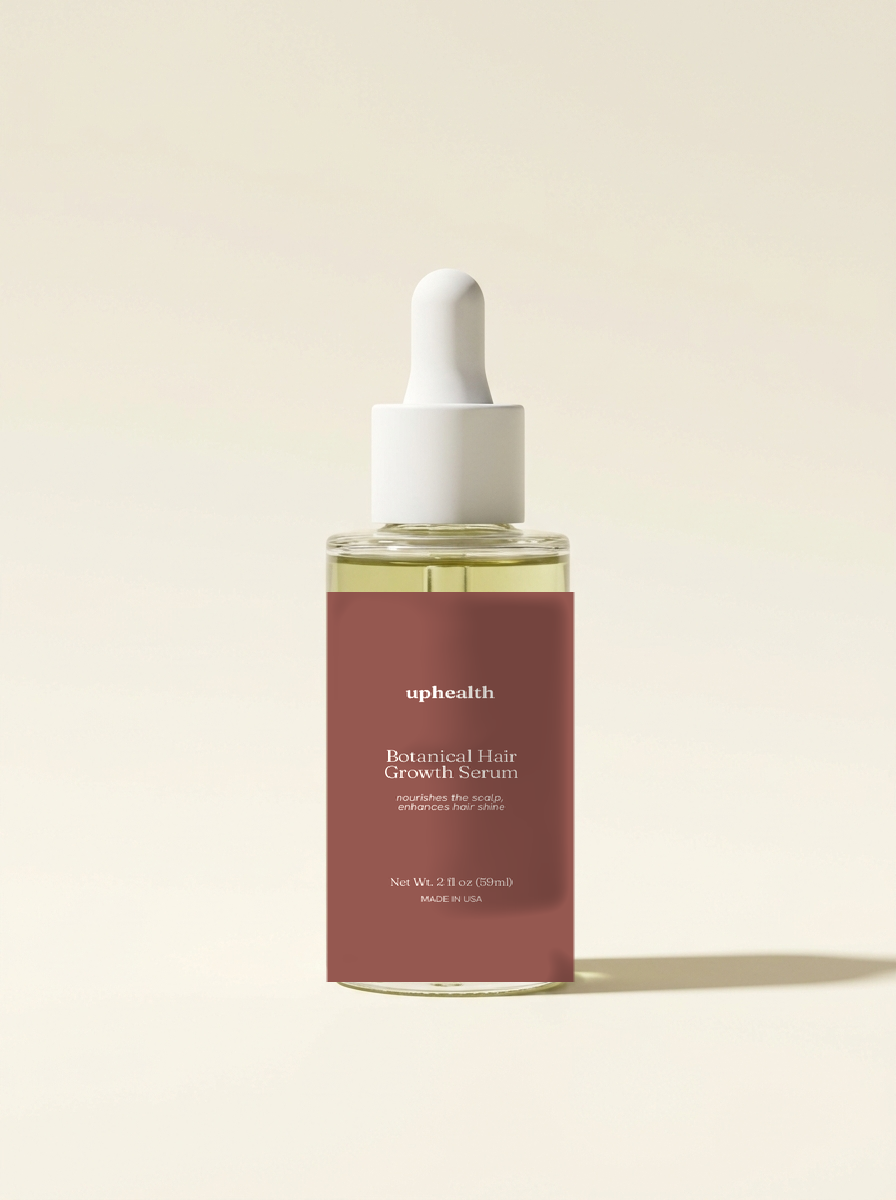
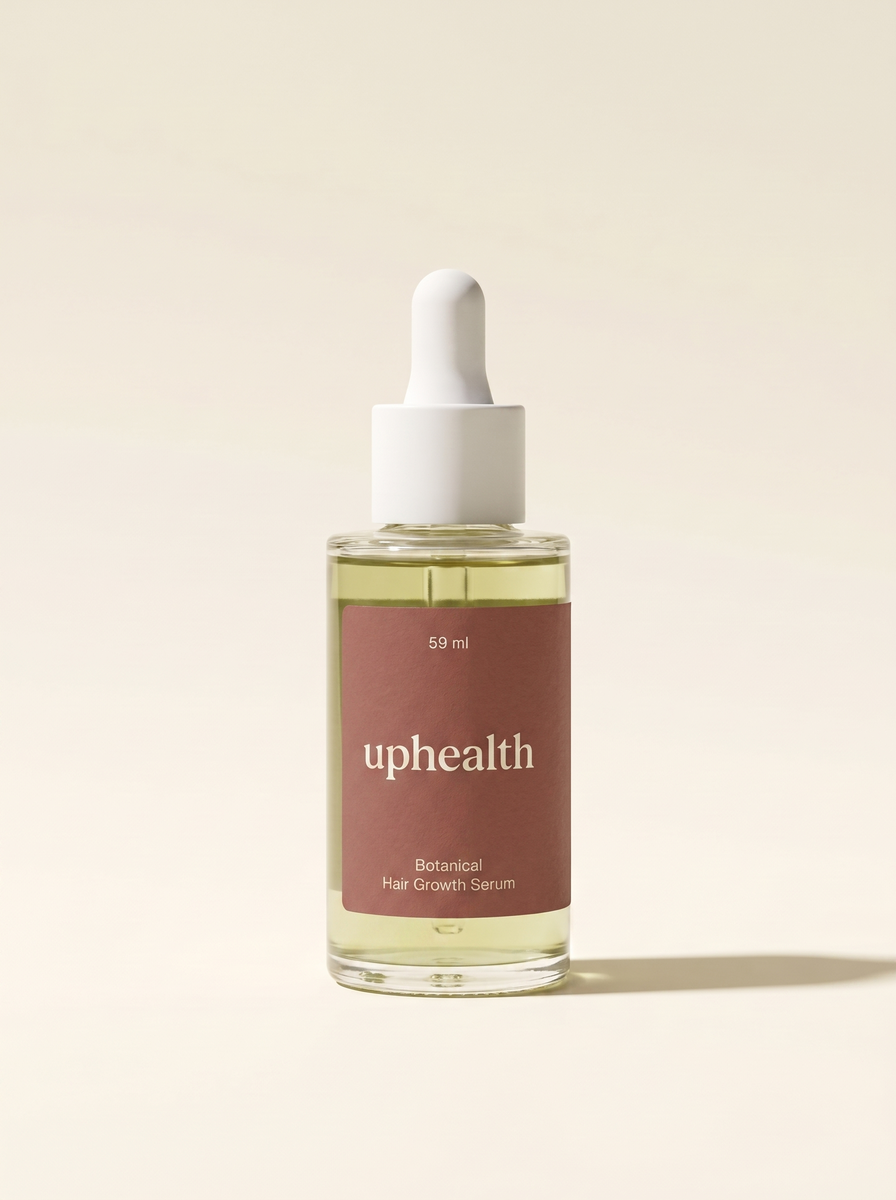
Real product photography everywhere; men's line recoloured, not composited
The pasted-flat-label composites are gone. The women's pages now run the real
Supliful card photography that was already in the repo (duo, amber 30 ml,
frosted 59 ml) - product cards, serum panels and marquee alike, with the
actual label: uphealth, product name, volume.

The men's versions are the same three photographs with the label recoloured
to brick #885049 by nano banana as an edit of the real photo - not a new
generation, so the type, bottles, lighting and shadows are untouched. Applied
to the hero, both marquee pack shots and all three product cards.

life-m6 had the garbled invented label in the man's hand; the same edit
replaced it with a small brick uphealth label, rest of the frame intact.

Deliverables in _deliver/ (green + brick, full resolution), raw generations
in _generated/packs/. VISUALS-PLAN.md v2 records the approach: card photos
where they exist, edits of card photos where a colour differs, generation
only where no photograph can exist.

diff --git a/men/index.html b/men/index.html
@@ -75,7 +75,7 @@
           <!-- Real uphealth pack shot on purpose: generated bottles come back with
                garbled invented text on the label, so the shipped photography stays. -->
           <div class="hero-stage">
-            <img src="assets/duo-packshot.png?v=2"
+            <img src="assets/duo-packshot.png?v=3"
                  alt="The Peptide and Botanical Growth Serum bottles side by side"
                  width="900" height="1125" fetchpriority="high">
           </div>
@@ -91,24 +91,24 @@
     <!-- ============ PHOTO MARQUEE ============ -->
     <section class="strip" aria-label="Product photography">
       <div class="strip-track">
-        <figure class="strip-tile"><img src="assets/life-m6.jpg" alt="A man applying serum along his hairline at the bathroom mirror"></figure>
-        <figure class="strip-tile"><img src="assets/botanical-packshot.png?v=2" alt="The Botanical Growth Serum bottle, studio pack shot"></figure>
+        <figure class="strip-tile"><img src="assets/life-m6.jpg?v=2" alt="A man applying serum along his hairline at the bathroom mirror"></figure>
+        <figure class="strip-tile"><img src="assets/botanical-packshot.png?v=3" alt="The Botanical Growth Serum bottle, studio pack shot"></figure>
         <figure class="strip-tile"><img src="assets/life-m7.jpg" alt="Fingertips massaging serum into the scalp"></figure>
-        <figure class="strip-tile"><img src="assets/duo-packshot.png?v=2" alt="Both serum bottles, studio pack shot"></figure>
+        <figure class="strip-tile"><img src="assets/duo-packshot.png?v=3" alt="Both serum bottles, studio pack shot"></figure>
         <figure class="strip-tile"><img src="assets/life-m3.jpg" alt="A drop of serum falling from a glass dropper onto the scalp"></figure>
         <figure class="strip-tile"><img src="assets/life-m4.jpg" alt="A man in his forties by the window on an ordinary morning"></figure>
         <figure class="strip-tile"><img src="assets/life-m8.jpg" alt="Serum applied to the crown, seen from behind"></figure>
-        <figure class="strip-tile"><img src="assets/serum-packshot.png?v=2" alt="The Peptide Growth Serum bottle, studio pack shot"></figure>
+        <figure class="strip-tile"><img src="assets/serum-packshot.png?v=3" alt="The Peptide Growth Serum bottle, studio pack shot"></figure>
         <figure class="strip-tile"><img src="assets/life-m5.jpg" alt="A man parting his hair at the crown to look at the scalp"></figure>
         <figure class="strip-tile"><img src="assets/life-m2.jpg" alt="A man drying his hair with a towel after the shower"></figure>
-        <figure class="strip-tile" aria-hidden="true"><img src="assets/life-m6.jpg" alt=""></figure>
-        <figure class="strip-tile" aria-hidden="true"><img src="assets/botanical-packshot.png?v=2" alt=""></figure>
+        <figure class="strip-tile" aria-hidden="true"><img src="assets/life-m6.jpg?v=2" alt=""></figure>
+        <figure class="strip-tile" aria-hidden="true"><img src="assets/botanical-packshot.png?v=3" alt=""></figure>
         <figure class="strip-tile" aria-hidden="true"><img src="assets/life-m7.jpg" alt=""></figure>
-        <figure class="strip-tile" aria-hidden="true"><img src="assets/duo-packshot.png?v=2" alt=""></figure>
+        <figure class="strip-tile" aria-hidden="true"><img src="assets/duo-packshot.png?v=3" alt=""></figure>
         <figure class="strip-tile" aria-hidden="true"><img src="assets/life-m3.jpg" alt=""></figure>
         <figure class="strip-tile" aria-hidden="true"><img src="assets/life-m4.jpg" alt=""></figure>
         <figure class="strip-tile" aria-hidden="true"><img src="assets/life-m8.jpg" alt=""></figure>
-        <figure class="strip-tile" aria-hidden="true"><img src="assets/serum-packshot.png?v=2" alt=""></figure>
+        <figure class="strip-tile" aria-hidden="true"><img src="assets/serum-packshot.png?v=3" alt=""></figure>
         <figure class="strip-tile" aria-hidden="true"><img src="assets/life-m5.jpg" alt=""></figure>
         <figure class="strip-tile" aria-hidden="true"><img src="assets/life-m2.jpg" alt=""></figure>
       </div>
@@ -127,7 +127,7 @@
               <svg viewBox="0 0 24 24" fill="none" stroke="currentColor" stroke-width="1.2" stroke-linecap="round" stroke-linejoin="round" aria-hidden="true"><circle cx="12" cy="12" r="4"/><path d="M12 2v2m0 16v2M4.93 4.93l1.41 1.41m11.32 11.32 1.41 1.41M2 12h2m16 0h2M6.34 17.66l-1.41 1.41M19.07 4.93l-1.66 1.41"/></svg>
               Morning
             </span>
-            <img class="serum-pack" src="assets/pack-botanical.png?v=2" alt="Botanical Hair Growth Serum bottle" loading="lazy">
+            <img class="serum-pack" src="assets/pack-botanical.png?v=3" alt="Botanical Hair Growth Serum bottle" loading="lazy">
             <h3>Botanical Growth Serum</h3>
             <p class="serum-role">settles the scalp</p>
             <ul class="ilist">
@@ -148,7 +148,7 @@
               <svg viewBox="0 0 24 24" fill="none" stroke="currentColor" stroke-width="1.2" stroke-linecap="round" stroke-linejoin="round" aria-hidden="true"><path d="M12 3a6 6 0 0 0 9 9 9 9 0 1 1-9-9"/></svg>
               Evening
             </span>
-            <img class="serum-pack" src="assets/pack-peptide.png?v=2" alt="Peptide Hair Growth Serum bottle" loading="lazy">
+            <img class="serum-pack" src="assets/pack-peptide.png?v=3" alt="Peptide Hair Growth Serum bottle" loading="lazy">
             <h3>Peptide Growth Serum</h3>
             <p class="serum-role">feeds the roots overnight</p>
             <ul class="ilist">
@@ -394,7 +394,7 @@
         <div class="products-grid">
           <article class="product-card">
             <figure class="product-media">
-              <img src="assets/pack-peptide.png?v=2" alt="Peptide Hair Growth Serum bottle" loading="lazy">
+              <img src="assets/pack-peptide.png?v=3" alt="Peptide Hair Growth Serum bottle" loading="lazy">
             </figure>
             <div class="product-body">
               <h3>Peptide Growth Serum</h3>
@@ -410,7 +410,7 @@
           </article>
           <article class="product-card">
             <figure class="product-media">
-              <img src="assets/pack-botanical.png?v=2" alt="Botanical Hair Growth Serum bottle" loading="lazy">
+              <img src="assets/pack-botanical.png?v=3" alt="Botanical Hair Growth Serum bottle" loading="lazy">
             </figure>
             <div class="product-body">
               <h3>Botanical Growth Serum</h3>
@@ -427,7 +427,7 @@
           <article class="product-card">
             <p class="tag tag-accent product-flag">Most popular</p>
             <figure class="product-media">
-              <img src="assets/pack-duo.png?v=2" alt="Both serum bottles together" loading="lazy">
+              <img src="assets/pack-duo.png?v=3" alt="Both serum bottles together" loading="lazy">
             </figure>
             <div class="product-body">
               <h3>The Full Routine</h3>

diff --git a/index.html b/index.html
@@ -122,7 +122,7 @@
               <svg viewBox="0 0 24 24" fill="none" stroke="currentColor" stroke-width="1.2" stroke-linecap="round" stroke-linejoin="round" aria-hidden="true"><circle cx="12" cy="12" r="4"/><path d="M12 2v2m0 16v2M4.93 4.93l1.41 1.41m11.32 11.32 1.41 1.41M2 12h2m16 0h2M6.34 17.66l-1.41 1.41M19.07 4.93l-1.66 1.41"/></svg>
               Morning
             </span>
-            <img class="serum-pack" src="assets/pack-botanical.png?v=2" alt="Botanical Hair Growth Serum bottle" loading="lazy">
+            <img class="serum-pack" src="assets/pack-botanical.png?v=3" alt="Botanical Hair Growth Serum bottle" loading="lazy">
             <h3>Botanical Growth Serum</h3>
             <p class="serum-role">wakes up the scalp</p>
             <ul class="ilist">
@@ -143,7 +143,7 @@
               <svg viewBox="0 0 24 24" fill="none" stroke="currentColor" stroke-width="1.2" stroke-linecap="round" stroke-linejoin="round" aria-hidden="true"><path d="M12 3a6 6 0 0 0 9 9 9 9 0 1 1-9-9"/></svg>
               Evening
             </span>
-            <img class="serum-pack" src="assets/pack-peptide.png?v=2" alt="Peptide Hair Growth Serum bottle" loading="lazy">
+            <img class="serum-pack" src="assets/pack-peptide.png?v=3" alt="Peptide Hair Growth Serum bottle" loading="lazy">
             <h3>Peptide Growth Serum</h3>
             <p class="serum-role">feeds the roots</p>
             <ul class="ilist">
@@ -380,7 +380,7 @@
         <div class="products-grid">
           <article class="product-card">
             <figure class="product-media">
-              <img src="assets/pack-peptide.png?v=2" alt="Peptide Hair Growth Serum bottle" loading="lazy">
+              <img src="assets/pack-peptide.png?v=3" alt="Peptide Hair Growth Serum bottle" loading="lazy">
             </figure>
             <div class="product-body">
               <h3>Peptide Growth Serum</h3>
@@ -396,7 +396,7 @@
           </article>
           <article class="product-card">
             <figure class="product-media">
-              <img src="assets/pack-botanical.png?v=2" alt="Botanical Hair Growth Serum bottle" loading="lazy">
+              <img src="assets/pack-botanical.png?v=3" alt="Botanical Hair Growth Serum bottle" loading="lazy">
             </figure>
             <div class="product-body">
               <h3>Botanical Growth Serum</h3>
@@ -413,7 +413,7 @@
           <article class="product-card">
             <p class="tag tag-accent product-flag">Most popular</p>
             <figure class="product-media">
-              <img src="assets/pack-duo.png?v=2" alt="Both serum bottles together" loading="lazy">
+              <img src="assets/pack-duo.png?v=3" alt="Both serum bottles together" loading="lazy">
             </figure>
             <div class="product-body">
               <h3>The Ritual Duo</h3>

diff --git a/product-peptide.html b/product-peptide.html
@@ -162,9 +162,9 @@
 
     <div class="pdp">
       <div class="pdp-gallery">
-        <figure class="pdp-main"><img id="pdp-main-img" src="assets/pack-peptide.png?v=2" alt="Peptide Hair Growth Serum"></figure>
+        <figure class="pdp-main"><img id="pdp-main-img" src="assets/pack-peptide.png?v=3" alt="Peptide Hair Growth Serum"></figure>
         <div class="pdp-thumbs" role="group" aria-label="Product photos">
-          <button class="pdp-thumb" type="button" data-src="assets/pack-peptide.png?v=2" aria-current="true"><img src="assets/pack-peptide.png?v=2" alt=""></button>
+          <button class="pdp-thumb" type="button" data-src="assets/pack-peptide.png?v=3" aria-current="true"><img src="assets/pack-peptide.png?v=3" alt=""></button>
           <button class="pdp-thumb" type="button" data-src="assets/life-model-peptide.png"><img src="assets/life-model-peptide.png" alt=""></button>
           <button class="pdp-thumb" type="button" data-src="assets/life-dropper-macro.png"><img src="assets/life-dropper-macro.png" alt=""></button>
           <button class="pdp-thumb" type="button" data-src="assets/life-bathroom-shelf.png"><img src="assets/life-bathroom-shelf.png" alt=""></button>
@@ -267,7 +267,7 @@
             </div>
           </div>
           <figure class="benefits-media">
-            <img src="assets/pack-peptide.png?v=2" alt="Peptide Hair Growth Serum bottle close-up" loading="lazy">
+            <img src="assets/pack-peptide.png?v=3" alt="Peptide Hair Growth Serum bottle close-up" loading="lazy">
           </figure>
           <div class="benefits-col col-r">
             <div class="benefit">
@@ -288,7 +288,7 @@
     <section class="pairs" aria-label="Pairs well with">
       <p class="tag">Pairs well with</p>
       <div class="pairs-card">
-        <img src="assets/pack-botanical.png?v=2" alt="Botanical Growth Serum">
+        <img src="assets/pack-botanical.png?v=3" alt="Botanical Growth Serum">
         <div>
           <h3>Botanical Growth Serum</h3>
           <p>The morning step: Densidyl, rosemary and ginger for a hydrated, healthy scalp.</p>

diff --git a/product-botanical.html b/product-botanical.html
@@ -162,9 +162,9 @@
 
     <div class="pdp">
       <div class="pdp-gallery">
-        <figure class="pdp-main"><img id="pdp-main-img" src="assets/pack-botanical.png?v=2" alt="Botanical Hair Growth Serum"></figure>
+        <figure class="pdp-main"><img id="pdp-main-img" src="assets/pack-botanical.png?v=3" alt="Botanical Hair Growth Serum"></figure>
         <div class="pdp-thumbs" role="group" aria-label="Product photos">
-          <button class="pdp-thumb" type="button" data-src="assets/pack-botanical.png?v=2" aria-current="true"><img src="assets/pack-botanical.png?v=2" alt=""></button>
+          <button class="pdp-thumb" type="button" data-src="assets/pack-botanical.png?v=3" aria-current="true"><img src="assets/pack-botanical.png?v=3" alt=""></button>
           <button class="pdp-thumb" type="button" data-src="assets/life-model-botanical.png"><img src="assets/life-model-botanical.png" alt=""></button>
           <button class="pdp-thumb" type="button" data-src="assets/life-mirror2.png"><img src="assets/life-mirror2.png" alt=""></button>
           <button class="pdp-thumb" type="button" data-src="assets/life-pouch2.png"><img src="assets/life-pouch2.png" alt=""></button>
@@ -267,7 +267,7 @@
             </div>
           </div>
           <figure class="benefits-media">
-            <img src="assets/pack-botanical.png?v=2" alt="Botanical Hair Growth Serum bottle close-up" loading="lazy">
+            <img src="assets/pack-botanical.png?v=3" alt="Botanical Hair Growth Serum bottle close-up" loading="lazy">
           </figure>
           <div class="benefits-col col-r">
             <div class="benefit">
@@ -288,7 +288,7 @@
     <section class="pairs" aria-label="Pairs well with">
       <p class="tag">Pairs well with</p>
       <div class="pairs-card">
-        <img src="assets/pack-peptide.png?v=2" alt="Peptide Growth Serum">
+        <img src="assets/pack-peptide.png?v=3" alt="Peptide Growth Serum">
         <div>
           <h3>Peptide Growth Serum</h3>
           <p>The evening step: five peptides and saw palmetto for the look of density.</p>

diff --git a/VISUALS-PLAN.md b/VISUALS-PLAN.md
@@ -1,0 +1,51 @@
+# План: качественные визуалы с реальной этикеткой
+
+31.07.2026, v2. Заменяет прошлый план целиком.
+
+## Факты, от которых считаем
+
+1. **Реальная съёмка продукта уже в репозитории**: `_labels/orig/duo-packshot.png`,
+   `serum-packshot.png`, `botanical-packshot.png` — это фото из карточек Supliful
+   (подтверждено скрином карточки от клиента: тот же кадр). Этикетка на них настоящая:
+   шалфейная плашка, «uphealth», объём.
+2. Наложение плоской этикетки на фото (вчерашний подход) забраковано клиентом — выглядит
+   наклейкой. Больше не используется; композиты вычищаются.
+3. Женская линейка — зелёная этикетка, мужская — красная `#885049` (правило клиента).
+4. Генерация с нуля переписывает текст этикетки. Поэтому для мужской версии — не новая
+   съёмка, а **редактирование реального фото** (nano banana: поменять цвет плашки,
+   текст не трогать). Текста на этикетке два слова — риск минимальный.
+
+## Шаги
+
+### 1. Женская версия — только готовые материалы, ноль генерации
+- Восстановить из `_labels/orig/` затёртые композитами файлы: `duo-packshot`,
+  `serum-packshot`, `botanical-packshot`.
+- Карточки товара и панели серумов (`pack-peptide`, `pack-botanical`, `pack-duo`)
+  перевести на реальные фото: amber 30 ml → pack-peptide, frosted 59 ml → pack-botanical,
+  дуо → pack-duo. Название продукта и так написано текстом в карточке — фото с
+  «uphealth + объём» ровно как у настоящего товара.
+- `hero-bunch-cutout` не трогаем: на нём этикетка уже читается как «uphealth» — совпадает
+  с реальной. Женский лайфстайл (`life-*`) — тоже: этикетки там шалфейные «uphealth».
+
+### 2. Мужская версия — те же фото, этикетка в кирпичный
+- Три исходника (amber, frosted, duo) прогнать через nano banana pro: «этикетка
+  #885049, текст кремовый, всё остальное не менять».
+- Проверить текст после генерации (uphealth / 30 ml / 59 ml — без искажений).
+- Разложить: duo → `men/assets/duo-packshot.png` (hero) и `pack-duo.png`;
+  amber → `pack-peptide.png` и `serum-packshot.png`; frosted → `pack-botanical.png`
+  и `botanical-packshot.png`.
+
+### 3. Мужской лайфстайл с браком на этикетке
+- `life-m6` (и проверить m3/m4): нечитаемая «каша» на флаконе → тем же редактированием
+  заменить этикетку на кирпичную «uphealth». Кадры без читаемой этикетки не трогаем.
+
+### 4. Сдача
+- Все генерации (включая брак) → `_generated/men/`; отобранное → `_deliver/` плоским
+  списком для передачи клиенту.
+- Версии `?v=` поднять, прогнать обе страницы, опубликовать в main + gh-pages.
+
+## Открытое
+
+- Хочет ли клиент красную этикетку и на **женских** PDP-страницах товара? Нет — там всё
+  зелёное по определению. На мужских PDP отдельных страниц нет (ведут на общие) — если
+  нужны мужские PDP, это отдельная задача.
